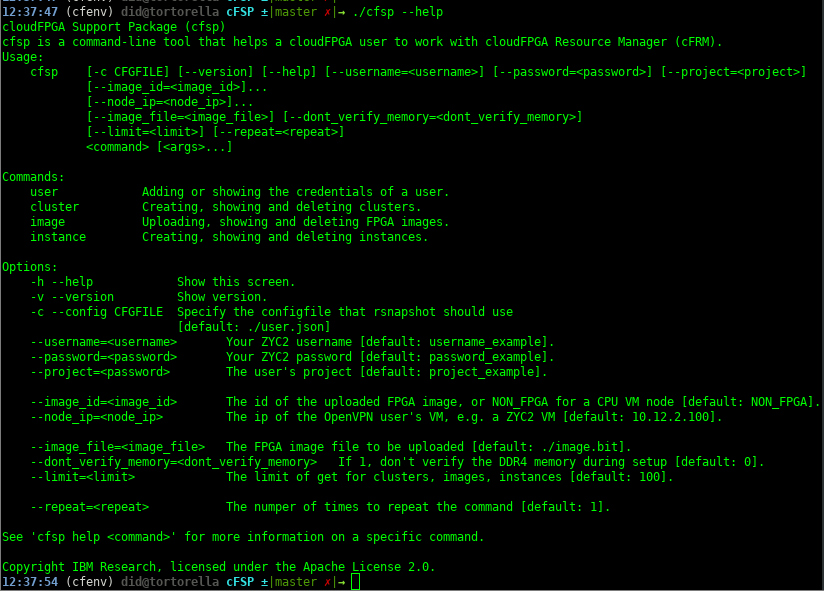
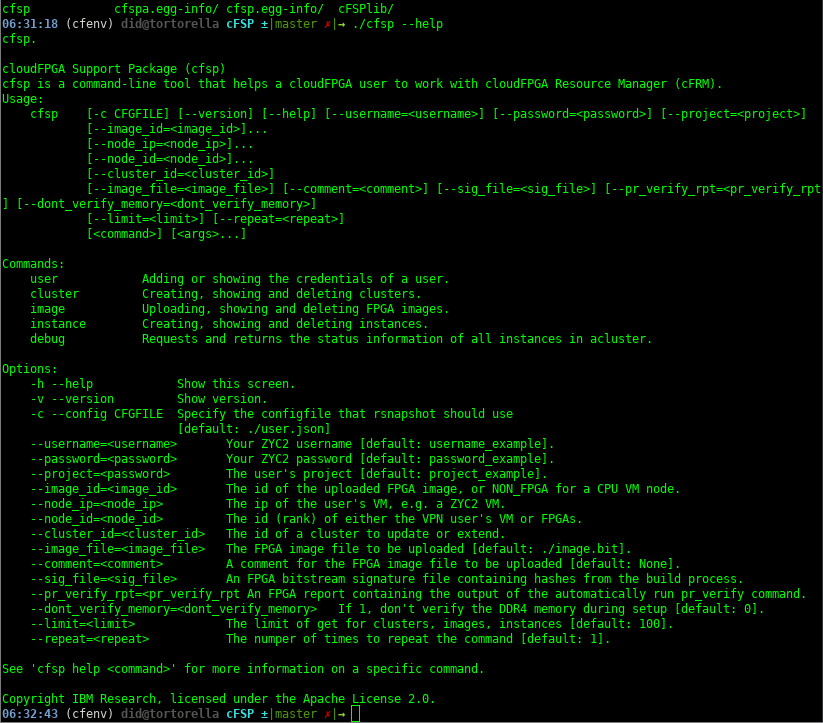
Fixed debug for cluster and instance.

Changed region(s): [[0.0, 0.0, 1.0, 1.0], [0.7594, 0.2437, 1.0, 0.2741], [0.9721, 0.9746, 1.0, 1.0]]

diff --git a/cFSPlib/python_api_client/swagger_client/models/inline_response2002.py b/cFSPlib/python_api_client/swagger_client/models/inline_response2002.py
@@ -28,66 +28,66 @@ class InlineResponse2002(object):
                             and the value is json key in definition.
     """
     swagger_types = {
-        'by_instance_id': 'dict(str, object)',
-        'by_rank_id': 'dict(str, object)'
+        'by_inst_id': 'dict(str, object)',
+        'by_rank': 'dict(str, object)'
     }
 
     attribute_map = {
-        'by_instance_id': 'by_instance_id',
-        'by_rank_id': 'by_rank_id'
+        'by_inst_id': 'by_inst_id',
+        'by_rank': 'by_rank'
     }
 
-    def __init__(self, by_instance_id=None, by_rank_id=None):  # noqa: E501
+    def __init__(self, by_inst_id=None, by_rank=None):  # noqa: E501
         """InlineResponse2002 - a model defined in Swagger"""  # noqa: E501
-        self._by_instance_id = None
-        self._by_rank_id = None
+        self._by_inst_id = None
+        self._by_rank = None
         self.discriminator = None
-        if by_instance_id is not None:
-            self.by_instance_id = by_instance_id
-        if by_rank_id is not None:
-            self.by_rank_id = by_rank_id
+        if by_inst_id is not None:
+            self.by_inst_id = by_inst_id
+        if by_rank is not None:
+            self.by_rank = by_rank
 
     @property
-    def by_instance_id(self):
-        """Gets the by_instance_id of this InlineResponse2002.  # noqa: E501
+    def by_inst_id(self):
+        """Gets the by_inst_id of this InlineResponse2002.  # noqa: E501
 
 
-        :return: The by_instance_id of this InlineResponse2002.  # noqa: E501
+        :return: The by_inst_id of this InlineResponse2002.  # noqa: E501
         :rtype: dict(str, object)
         """
-        return self._by_instance_id
+        return self._by_inst_id
 
-    @by_instance_id.setter
-    def by_instance_id(self, by_instance_id):
-        """Sets the by_instance_id of this InlineResponse2002.
+    @by_inst_id.setter
+    def by_inst_id(self, by_inst_id):
+        """Sets the by_inst_id of this InlineResponse2002.
 
 
-        :param by_instance_id: The by_instance_id of this InlineResponse2002.  # noqa: E501
+        :param by_inst_id: The by_inst_id of this InlineResponse2002.  # noqa: E501
         :type: dict(str, object)
         """
 
-        self._by_instance_id = by_instance_id
+        self._by_inst_id = by_inst_id
 
     @property
-    def by_rank_id(self):
-        """Gets the by_rank_id of this InlineResponse2002.  # noqa: E501
+    def by_rank(self):
+        """Gets the by_rank of this InlineResponse2002.  # noqa: E501
 
 
-        :return: The by_rank_id of this InlineResponse2002.  # noqa: E501
+        :return: The by_rank of this InlineResponse2002.  # noqa: E501
         :rtype: dict(str, object)
         """
-        return self._by_rank_id
+        return self._by_rank
 
-    @by_rank_id.setter
-    def by_rank_id(self, by_rank_id):
-        """Sets the by_rank_id of this InlineResponse2002.
+    @by_rank.setter
+    def by_rank(self, by_rank):
+        """Sets the by_rank of this InlineResponse2002.
 
 
-        :param by_rank_id: The by_rank_id of this InlineResponse2002.  # noqa: E501
+        :param by_rank: The by_rank of this InlineResponse2002.  # noqa: E501
         :type: dict(str, object)
         """
 
-        self._by_rank_id = by_rank_id
+        self._by_rank = by_rank
 
     def to_dict(self):
         """Returns the model properties as a dict"""

diff --git a/cFSPlib/cfsp_debug.py b/cFSPlib/cfsp_debug.py
@@ -56,20 +56,12 @@ def main(args):
             if args['<args>'][2] == 'cluster':
                 try:
                     api_response = api_instance.cf_manager_rest_api_get_flight_recorder_cluster(username, password, args['<args>'][3])
-                    print(type(api_response))
-                    print(api_response)
-                    print("now")
-                    print(type(api_response.by_instance_id))
-                    print(api_response.by_rank_id)
-                
                 except ApiException as e:
                     print("Exception when calling DebugApi->cf_manager_rest_api_get_flight_recorder_cluster: %s\n" % e)              
                     exit(-1)
             elif args['<args>'][2] == 'instance':
                 try:
                     api_response = api_instance.cf_manager_rest_api_get_flight_recorder_instance(username, password, args['<args>'][3])
-                    print(type(api_response))
-                    print(api_response)
                 except ApiException as e:
                     print("Exception when calling DebugApi->cf_manager_rest_api_get_flight_recorder_instance: %s\n" % e)              
                     exit(-1)                      

diff --git a/README.md b/README.md
@@ -77,10 +77,12 @@ pip install cfsp
 * [Extend a cluster](#extend-a-cluster).
 * [Reduce a cluster](#reduce-a-cluster).
 * [Restart a cluster](#restart-a-cluster).
+* [Debug a cluster](#debug-a-cluster).
 * [Delete a cluster](#delete-a-cluster).
 * [Create an instance](#create-an-instance).
 * [Get an instance](#get-an-instance).
 * [Restart an instance](#restart-an-instance).
+* [Debug an instance](#debug-an-instance).
 * [Delete an instance](#delete-an-instance).
 * [Use cFSP as a Python module](#use-cfsp-as-a-python-module).
 
@@ -295,6 +297,21 @@ or
 ![cfsp-cluster-delete](doc/img/6d.png)
 
 
+### Debug a cluster
+
+Assuming you want to debug a cluster with id `383`, by fetching the status information of the 
+                                            Network Routing Core of this cluster
+                                            
+> **_Attention:_** There may be a delay of a few seconds until the counters are updated after 
+                         the packets were processed.
+
+```bash
+./cfsp cluster get flight_recorder_data cluster 383
+```
+
+![cfsp-instance-delete](doc/img/14a.png)
+
+
 ### Delete a cluster
 
 Assuming you want to delete the previously created cluster with id `259`
@@ -312,7 +329,6 @@ Assuming you want to delete the previously created cluster with id `259`
 ```
 
 ![cfsp-cluster-delete-all](doc/img/9.png)
-
 
 
 
@@ -356,6 +372,22 @@ Assuming you want to restart an instance with id `84`
 ```
 
 ![cfsp-instance-delete](doc/img/13a.png)
+
+
+### Debug an instance
+
+Assuming you want to debug an instance with id `84`, by fetching the status information of the 
+                                            Network Routing Core of this cluster
+                                            
+> **_Attention:_** There may be a delay of a few seconds until the counters are updated after 
+                         the packets were processed.
+
+```bash
+./cfsp cluster get flight_recorder_data instance 84
+```
+
+![cfsp-instance-delete](doc/img/14b.png)
+
 
 ### Delete an instance
 

diff --git a/cFSPlib/python_api_client/docs/InlineResponse2002.md b/cFSPlib/python_api_client/docs/InlineResponse2002.md
@@ -3,8 +3,8 @@
 ## Properties
 Name | Type | Description | Notes
 ------------ | ------------- | ------------- | -------------
-**by_instance_id** | **dict(str, object)** |  | [optional] 
-**by_rank_id** | **dict(str, object)** |  | [optional] 
+**by_inst_id** | **dict(str, object)** |  | [optional] 
+**by_rank** | **dict(str, object)** |  | [optional] 
 
 [[Back to Model list]](../README.md#documentation-for-models) [[Back to API list]](../README.md#documentation-for-api-endpoints) [[Back to README]](../README.md)
 
